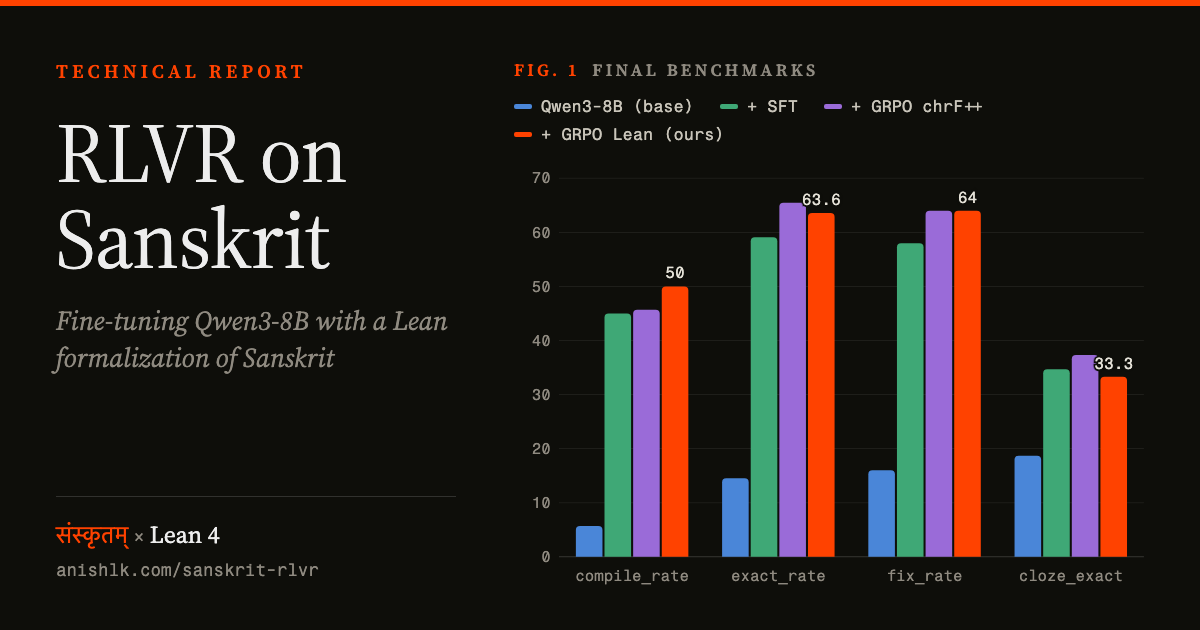
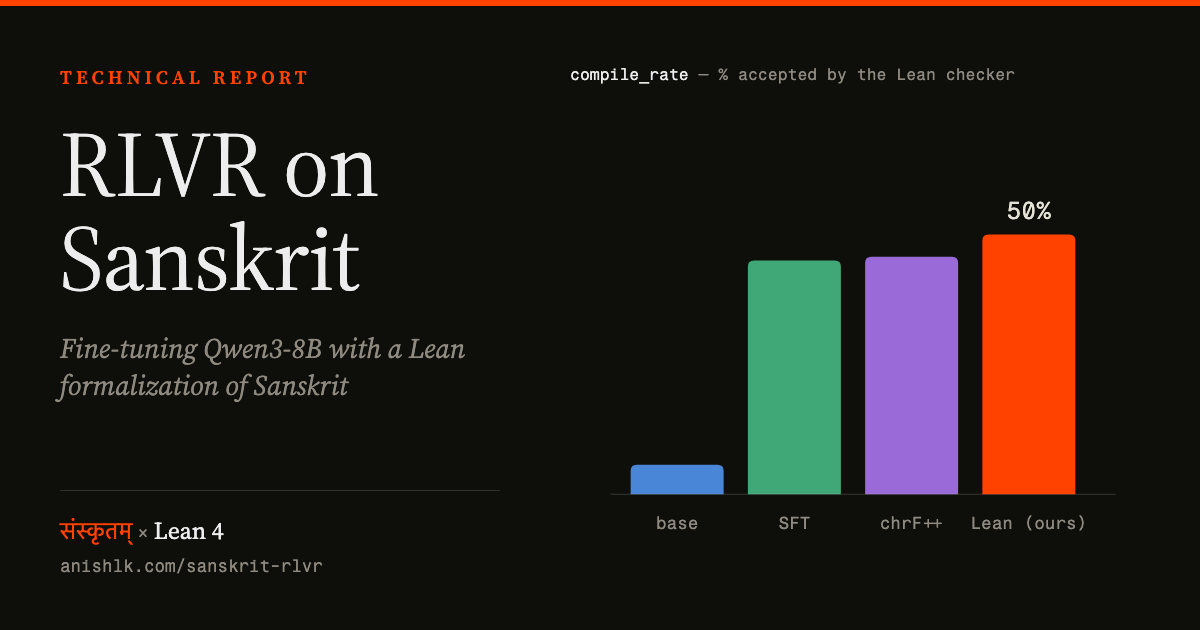
Simplify OG card to a single compile_rate bar group
Drop the 4x4 grouped chart, legend, and gridlines; keep the title
block plus four bars (base/SFT/chrF++/Lean) with one caption line.

diff --git a/docs/_og-source.html b/docs/_og-source.html
@@ -9,11 +9,9 @@
 /* 1200x630 social card in the report's design system (see index.html) */
 :root {
   --bg: #0e0e0a;
-  --paper: #16150f;
   --ink: #ededed;
   --muted: #8f8a80;
   --hairline: rgba(237, 237, 237, 0.16);
-  --hairline-soft: rgba(237, 237, 237, 0.08);
   --accent: #ff4200;
   --serif: "Source Serif 4", "Iowan Old Style", Georgia, serif;
   --mono: "Fragment Mono", "SF Mono", ui-monospace, Menlo, monospace;
@@ -45,9 +43,9 @@ body {
 }
 
 .left {
-  width: 470px;
+  width: 540px;
   flex: none;
-  padding: 58px 0 50px 56px;
+  padding: 64px 0 54px 60px;
   display: flex;
   flex-direction: column;
 }
@@ -58,31 +56,31 @@ body {
   font-size: 19px;
   letter-spacing: 0.22em;
   text-transform: uppercase;
-  margin-bottom: 26px;
+  margin-bottom: 28px;
 }
 
 h1 {
   margin: 0;
   font-weight: 400;
-  font-size: 84px;
+  font-size: 92px;
   line-height: 1.02;
   letter-spacing: -0.01em;
 }
 
 .subtitle {
-  margin-top: 22px;
+  margin-top: 24px;
   color: var(--muted);
   font-style: italic;
-  font-size: 27px;
+  font-size: 28px;
   line-height: 1.35;
-  max-width: 400px;
+  max-width: 440px;
 }
 
 .brand {
   margin-top: auto;
-  padding-top: 20px;
+  padding-top: 22px;
   border-top: 1px solid var(--hairline);
-  width: 400px;
+  width: 440px;
   font-size: 24px;
 }
 
@@ -92,42 +90,26 @@ h1 {
 
 .right {
   flex: 1;
-  padding: 58px 52px 50px 44px;
+  padding: 0 64px 0 30px;
   display: flex;
   flex-direction: column;
+  justify-content: center;
 }
 
 .chart-head {
-  font-weight: 600;
-  font-size: 17px;
-  letter-spacing: 0.2em;
-  text-transform: uppercase;
-  color: var(--muted);
-  margin-bottom: 14px;
-}
-
-.chart-head .fig { color: var(--accent); margin-right: 12px; }
-
-.legend { display: flex; flex-wrap: wrap; gap: 8px 26px; margin-bottom: 18px; }
-
-.chip {
-  display: inline-flex;
-  align-items: center;
-  gap: 9px;
   font-family: var(--mono);
-  font-size: 16.5px;
-  color: #c9c5ba;
+  font-size: 16px;
+  color: var(--muted);
+  margin-bottom: 6px;
 }
 
-.chip .sw { width: 18px; height: 5px; border-radius: 2px; display: inline-block; }
+.chart-head .m { color: var(--ink); }
 
-.chart { flex: 1; }
-svg { width: 100%; height: 100%; display: block; }
+svg { width: 100%; height: auto; display: block; }
 
-.gridline { stroke: rgba(237, 237, 237, 0.07); stroke-width: 1; }
 .axisline { stroke: rgba(237, 237, 237, 0.18); stroke-width: 1; }
-.tick { fill: var(--muted); font-family: var(--mono); font-size: 15px; }
-.dlab { fill: #e5e2d8; font-family: var(--mono); font-size: 15.5px; paint-order: stroke; stroke: #0e0e0a; stroke-width: 4px; }
+.blab { fill: var(--muted); font-family: var(--mono); font-size: 17px; }
+.dlab { fill: #e5e2d8; font-family: var(--mono); font-size: 24px; }
 </style>
 </head>
 <body>
@@ -145,64 +127,21 @@ svg { width: 100%; height: 100%; display: block; }
 </div>
 
 <div class="right">
-  <div class="chart-head"><span class="fig">Fig. 1</span>Final benchmarks</div>
-  <div class="legend" id="legend"></div>
-  <div class="chart" id="chart"></div>
+  <div class="chart-head"><span class="m">compile_rate</span> — % accepted by the Lean checker</div>
+  <svg viewBox="0 0 560 470" role="img" aria-label="Bar chart: compile rate of four models — base 5.7%, SFT 45%, GRPO chrF++ 45.7%, GRPO Lean (ours) 50%">
+    <!-- bars: v/70 scaled to 360px above baseline y=400; 4px-radius rounded data ends -->
+    <path d="M60,376.7 q0,-6 6,-6 h80 q6,0 6,6 V400 H60 Z" fill="#4a86d8"/>
+    <path d="M176,174.6 q0,-6 6,-6 h80 q6,0 6,6 V400 H176 Z" fill="#3fa876"/>
+    <path d="M292,171 q0,-6 6,-6 h80 q6,0 6,6 V400 H292 Z" fill="#9a6bd8"/>
+    <path d="M408,148.9 q0,-6 6,-6 h80 q6,0 6,6 V400 H408 Z" fill="#ff4200"/>
+    <text class="dlab" x="454" y="128" text-anchor="middle">50%</text>
+    <line class="axisline" x1="40" x2="540" y1="400" y2="400"/>
+    <text class="blab" x="106" y="434" text-anchor="middle">base</text>
+    <text class="blab" x="222" y="434" text-anchor="middle">SFT</text>
+    <text class="blab" x="338" y="434" text-anchor="middle">chrF++</text>
+    <text class="blab" x="454" y="434" text-anchor="middle" fill="#ededed">Lean (ours)</text>
+  </svg>
 </div>
-
-<script>
-  const MODELS = [
-    { id: "base", name: "Qwen3-8B (base)", color: "#4a86d8" },
-    { id: "sft",  name: "+ SFT",           color: "#3fa876" },
-    { id: "chrf", name: "+ GRPO chrF++",   color: "#9a6bd8" },
-    { id: "lean", name: "+ GRPO Lean (ours)", color: "#ff4200" }
-  ];
-  const METRICS = ["compile_rate", "exact_rate", "fix_rate", "cloze_exact"];
-  const BARS = {
-    compile_rate: [5.7, 45.0, 45.7, 50.0],
-    exact_rate:   [14.5, 59.1, 65.5, 63.6],
-    fix_rate:     [16.0, 58.0, 64.0, 64.0],
-    cloze_exact:  [18.7, 34.7, 37.3, 33.3]
-  };
-
-  document.getElementById("legend").innerHTML = MODELS.map(m =>
-    '<span class="chip"><span class="sw" style="background:' + m.color + '"></span>' + m.name + "</span>").join("");
-
-  const NS = "http://www.w3.org/2000/svg";
-  const el = (t, a) => { const e = document.createElementNS(NS, t); for (const k in a) e.setAttribute(k, a[k]); return e; };
-
-  const W = 620, H = 420, L = 44, R = 4, T = 16, B = 34;
-  const maxV = 70, pw = W - L - R, ph = H - T - B;
-  const svg = el("svg", { viewBox: "0 0 " + W + " " + H, role: "img",
-    "aria-label": "Grouped bar chart of final benchmark scores for four models" });
-  const y = v => T + ph * (1 - v / maxV);
-  for (let g = 0; g <= maxV; g += 10) {
-    svg.appendChild(el("line", { x1: L, x2: W - R, y1: y(g), y2: y(g), class: g === 0 ? "axisline" : "gridline" }));
-    const t = el("text", { x: L - 8, y: y(g) + 5, "text-anchor": "end", class: "tick" });
-    t.textContent = g; svg.appendChild(t);
-  }
-  const slot = pw / METRICS.length, bw = 26, gap = 2;
-  const groupW = MODELS.length * bw + (MODELS.length - 1) * gap;
-  METRICS.forEach((met, gi) => {
-    const x0 = L + gi * slot + (slot - groupW) / 2;
-    MODELS.forEach((m, mi) => {
-      const v = BARS[met][mi];
-      const bx = x0 + mi * (bw + gap), by = y(v), bh = T + ph - by;
-      const r = Math.min(4, bh);
-      const d = "M" + bx + "," + (by + r) + " q0,-" + r + " " + r + ",-" + r +
-        " h" + (bw - 2 * r) + " q" + r + ",0 " + r + "," + r +
-        " v" + (bh - r) + " h-" + bw + " Z";
-      svg.appendChild(el("path", { d: d, fill: m.color }));
-      if (m.id === "lean") {
-        const t = el("text", { x: bx + bw / 2, y: by - 8, "text-anchor": "middle", class: "dlab" });
-        t.textContent = v; svg.appendChild(t);
-      }
-    });
-    const lab = el("text", { x: x0 + groupW / 2, y: H - 10, "text-anchor": "middle", class: "tick" });
-    lab.textContent = met; svg.appendChild(lab);
-  });
-  document.getElementById("chart").appendChild(svg);
-</script>
 
 </body>
 </html>

diff --git a/docs/index.html b/docs/index.html
@@ -13,7 +13,7 @@
 <meta property="og:image" content="https://anishlk.com/sanskrit-rlvr/og-image.png">
 <meta property="og:image:width" content="1200">
 <meta property="og:image:height" content="630">
-<meta property="og:image:alt" content="RLVR on Sanskrit — final benchmarks across the four models, grouped bar chart">
+<meta property="og:image:alt" content="RLVR on Sanskrit — compile rate of the four models: base 5.7%, SFT 45%, GRPO chrF++ 45.7%, GRPO Lean (ours) 50%">
 <meta name="twitter:card" content="summary_large_image">
 <meta name="twitter:title" content="RLVR on Sanskrit">
 <meta name="twitter:description" content="Fine-tuning Qwen3-8B with a Lean formalization of Sanskrit — formal methods as both data generator and RLVR reward.">
